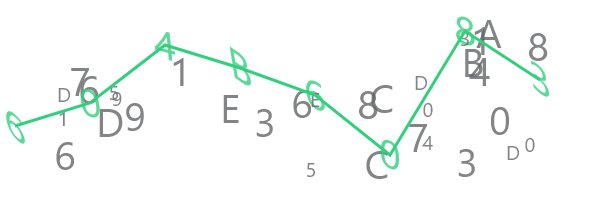
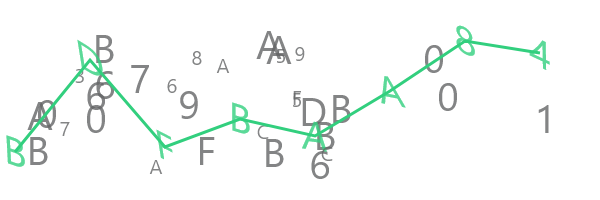
updated to example.js

diff --git a/examples/example.js b/examples/example.js
@@ -25,6 +25,15 @@ const { CaptchaGenerator, Captcha } = require('../js-script');
 	fs.writeFileSync('./examples/all.png', await captcha.generate());
 	// console text of captcha
 	console.log(captcha.text);
+	/* New array functionality */
+	const captcha2 = new CaptchaGenerator();
+	captcha2.setCaptcha([
+		{ text: 'AB', color: 'red', size: 60, font: 'Arial' },
+		{ text: 'CD', color: 'green', size: 60, font: 'Arial' },
+	]);
+	fs.writeFileSync('./examples/array.png', await captcha2.generate());
+	console.log(captcha2.text);
+
 	// example captcha
 	const exmCaptcha = new Captcha(600, 200, 8);
 	exmCaptcha.addDecoy({ total: 20, size: 40 });
